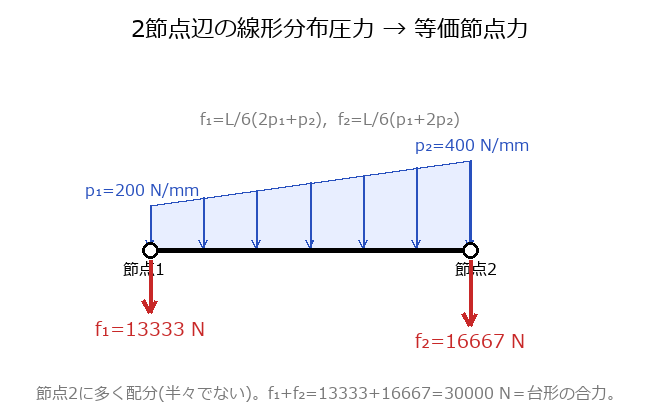
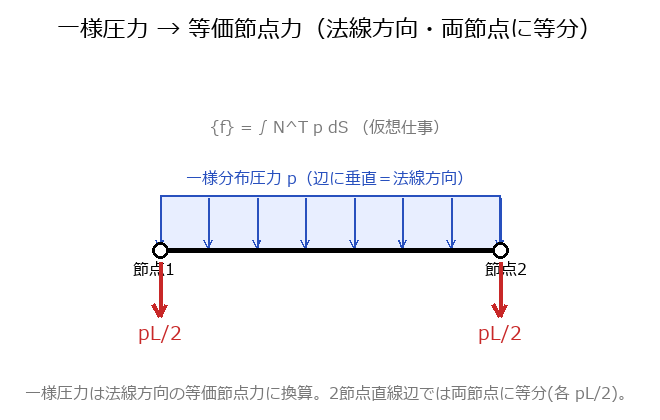
固体2級 5-11 再作成: 公式問5-11の主眼(均等分布力の与え方)へ復元
公式問5-11は「均等分布力(圧力)の与え方」の概念問題(正解②:圧力は辺・面
の法線方向に等価節点力へ換算して与える)。旧問題は線形分布(台形)荷重の
f2を計算させる別物で、節点力の数値計算は本来不要=主眼ずれだった。
概念問題へ作り直し、図も一様圧力版に差し替え(回答前=設定/回答後=法線方向
の等価節点力・両節点に等分pL/2)。回答前図f5PressureSetupを新設。
生成元をfigs_s2_5_11.pyへ移設し旧台形図の生成ブロックを撤去(幽霊防止)。
check_quality: 5-11は最長でなく問題なし(WARNは既存の別問題由来)。

diff --git a/src/figures.ts b/src/figures.ts
@@ -593,6 +593,7 @@ export const FIGURES: Record<string, ImageSourcePropType> = {
   f5NeumannLoad: require('../assets/figures/f5NeumannLoad.png'),
   f5NodeOrder: require('../assets/figures/f5NodeOrder.png'),
   f5Pressure2Nodal: require('../assets/figures/f5Pressure2Nodal.png'),
+  f5PressureSetup: require('../assets/figures/f5PressureSetup.png'),
   f5QuadTriCoord: require('../assets/figures/f5QuadTriCoord.png'),
   f5Reduction: require('../assets/figures/f5Reduction.png'),
   f5ResidualStrain: require('../assets/figures/f5ResidualStrain.png'),

diff --git a/tools/figs_s2_5_11.py b/tools/figs_s2_5_11.py
@@ -1,0 +1,49 @@
+# -*- coding: utf-8 -*-
+"""固体2級 5-11(均等分布力=圧力の与え方)の図を作成。
+公式問5-11は「一様分布圧力を要素の辺/面の法線方向に等価節点力へ換算して与える」概念問題。
+- f5PressureSetup   : 回答前(一様圧力の設定のみ・答え=方法は示さない)
+- f5Pressure2Nodal  : 回答後(法線方向の等価節点力へ換算、2節点直線辺では両節点に等分 pL/2)
+白地660x420。"""
+import sys
+sys.path.insert(0, r"C:\Users\jwpsa\Documents\desktop\claude\CAE\tools")
+from figlib import *
+
+N1 = (160, 250); N2 = (500, 250); TOP = 195  # 一様圧力の上端(高さ一定)
+
+
+def draw_edge_and_pressure(d):
+    # 一様分布圧力(高さ一定の長方形プロファイル・法線=下向き)
+    d.rectangle((N1[0], TOP, N2[0], N1[1]), outline=BLUE, width=2, fill=(232, 238, 255))
+    nseg = 7
+    for i in range(nseg + 1):
+        x = N1[0] + (N2[0] - N1[0]) * i / nseg
+        arrow(d, x, TOP + 3, x, N1[1] - 2, BLUE, 2, 8)
+    # 要素の辺と2節点
+    d.line((N1[0], N1[1], N2[0], N2[1]), fill=BLACK, width=5)
+    node(d, N1[0], N1[1], 8); node(d, N2[0], N2[1], 8)
+    ctext(d, N1[0] - 6, N1[1] + 20, "節点1", FT, BLACK, "mm")
+    ctext(d, N2[0] + 6, N2[1] + 20, "節点2", FT, BLACK, "mm")
+    ctext(d, (N1[0] + N2[0]) // 2, TOP - 16, "一様分布圧力 p（辺に垂直＝法線方向）", FT, BLUE)
+
+
+# ===== 回答前: 設定のみ（方法＝答えは示さない）=====
+im, d = new()
+title(d, "要素の辺に作用する一様分布圧力（節点へどう与える？）")
+draw_edge_and_pressure(d)
+dim(d, N1[0], N1[1] + 52, N2[0], N1[1] + 52, "辺の長さ L")
+ctext(d, (N1[0] + N2[0]) // 2, N1[1] + 92, "p は辺全体で一定", FT, GRAY)
+note(d, "この一様圧力を節点に与える正しい方法は？（圧力[Pa]は節点にそのまま入れられない）")
+save(im, "f5PressureSetup")
+
+# ===== 回答後: 法線方向の等価節点力へ換算、両節点に等分 =====
+im, d = new()
+title(d, "一様圧力 → 等価節点力（法線方向・両節点に等分）")
+draw_edge_and_pressure(d)
+# 等価節点力（両節点で等しい＝等分）
+for nx in (N1[0], N2[0]):
+    arrow(d, nx, N1[1] + 12, nx, N1[1] + 66, RED, 4, 13)
+ctext(d, N1[0], N1[1] + 84, "pL/2", FS, RED)
+ctext(d, N2[0], N1[1] + 84, "pL/2", FS, RED)
+ctext(d, (N1[0] + N2[0]) // 2, 128, "{f} = ∫ N^T p dS （仮想仕事）", FT, GRAY)
+note(d, "一様圧力は法線方向の等価節点力に換算。2節点直線辺では両節点に等分(各 pL/2)。")
+save(im, "f5Pressure2Nodal")

diff --git a/tools/figs_s2_prerelease_fix.py b/tools/figs_s2_prerelease_fix.py
@@ -126,32 +126,9 @@ ctext(d, 530, base+98, "正確(たわみ大, 比→1)", FT, GRAY)
 note(d, "剛い順=三角形>4節点>8節点。比=計算たわみ/理論たわみ(計算=理論×比、0.25→0.80×0.25=0.20mm)。")
 save(im, "elem7ElemBendRank")
 
-# ============================================================ 5-11 f5Pressure2Nodal
-im, d = new()
-title(d, "2節点辺の線形分布圧力 → 等価節点力")
-n1 = (150, 250); n2 = (470, 250)
-# 圧力プロファイル(左 p1=200, 右 p2=400 → 高さ2:1)
-TL = (n1[0], n1[1]-45); TR = (n2[0], n2[1]-90)
-d.polygon([n1, n2, TR, TL], outline=BLUE, width=2, fill=(232, 238, 255))
-nseg = 6
-for i in range(nseg+1):
-    x = n1[0] + (n2[0]-n1[0])*i/nseg
-    topy = TL[1] + (TR[1]-TL[1])*i/nseg
-    arrow(d, x, topy, x, n1[1]-2, BLUE, 2, 8)
-d.line((n1[0], n1[1], n2[0], n2[1]), fill=BLACK, width=5)
-node(d, n1[0], n1[1], 8); node(d, n2[0], n2[1], 8)
-ctext(d, n1[0]-6, n1[1]+20, "節点1", FT, BLACK, "mm")
-ctext(d, n2[0]+6, n2[1]+20, "節点2", FT, BLACK, "mm")
-ctext(d, TL[0]-8, TL[1]-14, "p₁=200 N/mm", FT, BLUE, "mm")
-ctext(d, TR[0]+2, TR[1]-14, "p₂=400 N/mm", FT, BLUE, "mm")
-# 等価節点力（下向き・節点2が長い）
-arrow(d, n1[0], n1[1]+10, n1[0], n1[1]+62, RED, 4, 13)
-arrow(d, n2[0], n2[1]+10, n2[0], n2[1]+75, RED, 4, 13)
-ctext(d, n1[0], n1[1]+80, "f₁=13333 N", FS, RED)
-ctext(d, n2[0], n2[1]+92, "f₂=16667 N", FS, RED)
-ctext(d, 330, 120, "f₁=L/6(2p₁+p₂),  f₂=L/6(p₁+2p₂)", FT, GRAY)
-note(d, "節点2に多く配分(半々でない)。f₁+f₂=13333+16667=30000 N＝台形の合力。")
-save(im, "f5Pressure2Nodal")
+# 5-11 の図(f5Pressure2Nodal/f5PressureSetup)は tools/figs_s2_5_11.py へ移設。
+# 公式問5-11は「均等分布力(圧力)の与え方」の概念問題のため、一様圧力版に作り直した。
+# (旧=線形分布(台形)荷重の等価節点力計算という主眼ずれの図。2026-09-30 差し替え)
 
 # ============================================================ 6-6e num6SOR
 im, d = new()
